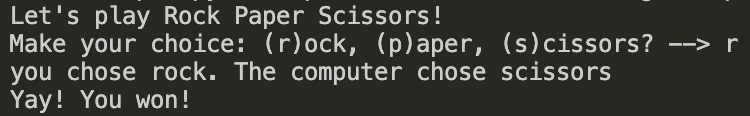
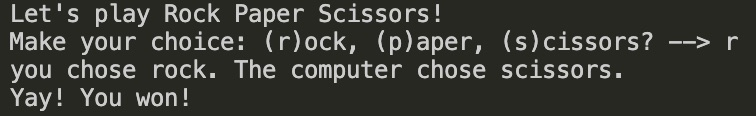
changed image

diff --git a/main.py b/main.py
@@ -15,7 +15,7 @@ elif user_choice == computer_choice:
   print("You chose {}. The computer chose {}.".format(options[user_choice], options[computer_choice]))
   print("Tie!")
 elif wins[user_choice] == computer_choice:
-  print("you chose {}. The computer chose {}".format(options[user_choice], options[computer_choice]))
+  print("you chose {}. The computer chose {}.".format(options[user_choice], options[computer_choice]))
   print("Yay! You won!")
 else:
   print("you chose {}. The computer chose {}".format(options[user_choice], options[computer_choice]))
